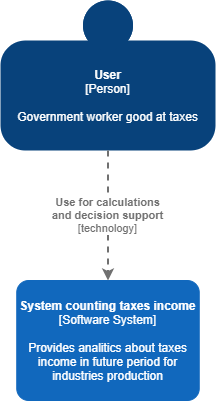
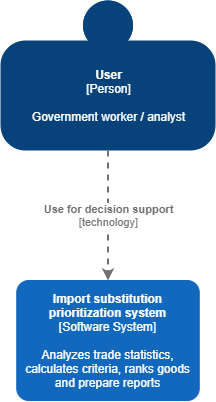
Add files via upload
Корректировка ЛР2 на актуальную версию

diff --git a/Lab Work №2/docs/Текстовый документ.md b/Lab Work №2/docs/Текстовый документ.md
@@ -5,19 +5,32 @@
 **Цель работы:** Получить опыт использования графической нотации для фиксации архитектурных решений.
 
 ## Диаграмма системного контекста
-![Диаграмма системного контекста](diagram11.png)
+![Диаграмма системного контекста](diagram1.png)
 
-Пользователь, разбирающийся в налогообложении, использует систему для аналитических вычислений и поддержки в принятии решении по выбору приоритетной отрасли импортозамещения
+Пользователь использует систему для поддержки в принятии решений по выбору приоритетной отрасли импортозамещения. Аритектура клиент-серверная.
 
 ## Диаграмма контейнеров
-![Диаграмма контейнеров](diagram22.png)
+![Диаграмма контейнеров](diagram2.png)
 
-Система состоит из настольного приложения и API приложения для вычислений и авторизации с сервера, который обращается к базе данных.
+Система состоит из настольного приложения и API приложения для вычислений, которое обращается к базе данных.
 
 ## Диаграмма компонентов (2 шт.)
-![Диаграмма компонентов](diagram33.png)
+![Диаграмма компонентов](diagram3.png)
 
-![Диаграмма компонентов](diagram44.png)
+![Диаграмма компонентов](diagram4.png)
 
+Components
 
-Настольное приложение разделяется на компоненты авторизации и пользовательского интерфейса.
+- API / Request Handler
+
+- Data Validation Component
+
+- Preprocessing Component
+
+- Criteria Calculation Component
+
+- AHP Weighting Component
+
+- Scoring & Ranking Component
+
+- Result Export Component
